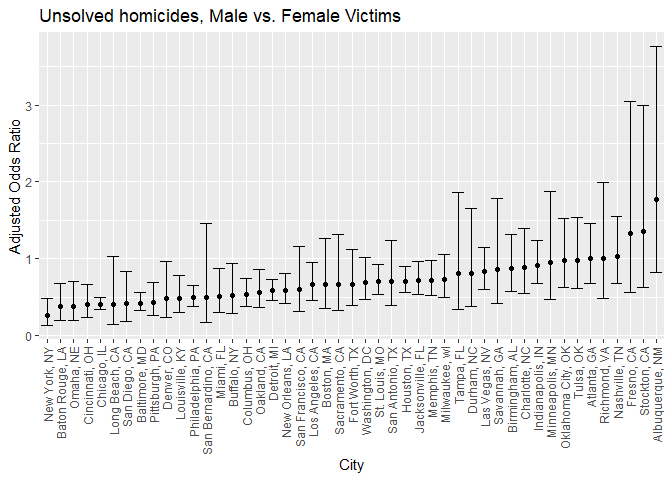
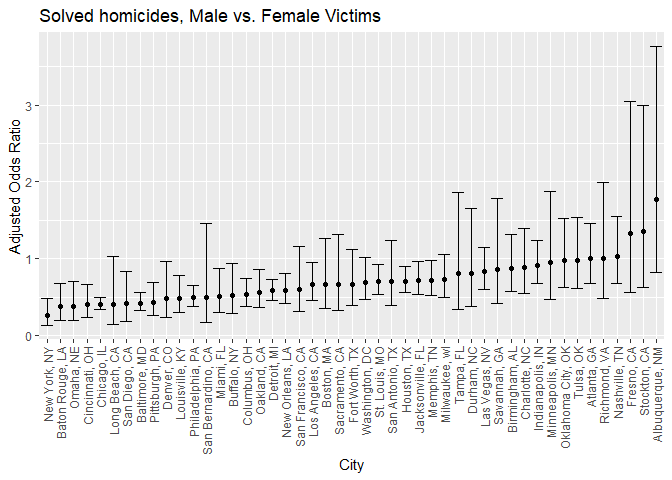
worked on problem 2 and 3

Changed region(s): [[0.0625, 0.0, 0.5938, 0.0625]]

diff --git a/Homework-6.md b/Homework-6.md
@@ -1,7 +1,7 @@
 Homework 6
 ================
 Mari Sanders
-2024-12-01
+2024-12-02
 
 # Problem 1
 
@@ -59,7 +59,8 @@ log_beta %>%
 Data Cleaning
 
 ``` r
-homicide_df <- read_csv("data/homicide-data.csv", na = c("", "NA", "Unknown")) %>% filter(victim_race != "NA") %>% 
+homicide_df <- read_csv("data/homicide-data.csv", na = c("", "NA", "Unknown")) %>% 
+  filter(victim_race != "NA") %>% 
   janitor::clean_names() %>% 
   unite(city_state, c(city, state), sep = ", ") %>% 
   filter(city_state != "Dallas, TX", 
@@ -92,10 +93,12 @@ logistic <-
   filter(city_state == "Baltimore, MD") %>% 
   glm(resolved ~ victim_age + victim_sex + victim_race, data = ., family = binomial())
 
-broom::tidy(logistic, conf.int = TRUE) %>% mutate(OR = exp(estimate), 
-                                                  conf_low = exp(conf.low), 
-                                                  conf_high = exp(conf.high)) %>% 
-  select(term, log_OR = estimate, OR, conf_low, conf_high) %>% filter(term == "victim_sexMale") %>% 
+broom::tidy(logistic, conf.int = TRUE) %>% 
+  mutate(OR = exp(estimate), 
+         conf_low = exp(conf.low), 
+         conf_high = exp(conf.high)) %>% 
+  select(term, log_OR = estimate, OR, conf_low, conf_high) %>% 
+  filter(term == "victim_sexMale") %>% 
   knitr::kable(digits = 3)
 ```
 
@@ -103,8 +106,8 @@ broom::tidy(logistic, conf.int = TRUE) %>% mutate(OR = exp(estimate),
 |:---------------|-------:|------:|---------:|----------:|
 | victim_sexMale | -0.854 | 0.426 |    0.324 |     0.558 |
 
-In Baltimore, homicides of Male victims were 0.426 times more likely to
-be unsolved compared to homicides of Female victims after adjusting for
+In Baltimore, homicides of male victims were 0.426 times more likely to
+be unsolved compared to homicides of female victims after adjusting for
 all other variables.
 
 ``` r
@@ -117,7 +120,7 @@ city_results <- homicide_df %>%
   unnest(results) %>%
   mutate(OR = exp(estimate), 
          conf_low = exp(conf.low), 
-                                                  conf_high = exp(conf.high)) %>% 
+         conf_high = exp(conf.high)) %>% 
   select(city_state, term, OR, conf_low, conf_high) %>%
    filter(term == "victim_sexMale") 
 
@@ -180,7 +183,7 @@ city_results %>%
   geom_point() +
   geom_errorbar(aes(ymin = conf_low, ymax = conf_high)) +
   labs(
-    title = "Unsolved homicides, Male vs. Female Victims",
+    title = "Solved homicides, Male vs. Female Victims",
     x = "City", 
     y = "Adjusted Odds Ratio"
   ) +
@@ -188,6 +191,11 @@ city_results %>%
 ```
 
 ![](Homework-6_files/figure-gfm/unnamed-chunk-7-1.png)<!-- -->
+
+All of the cities, except for Tulsa, Atlanta, Richmond, Nashville,
+Fresno, Stockton, and Albuquerque have an adjusted odds ratio less
+than 1. This means that males in all cities except for these are more
+likely to have unsolved homicides than females.
 
 # Problem 3
 
@@ -232,91 +240,91 @@ birthweight %>%
 There are no missing values in this dataset.
 
 ``` r
-birthweight_model <- 
-  lm(bwt ~ ., data = birthweight)
-summary(birthweight_model)
+x <- birthweight %>% 
+  select(-bwt) %>% data.matrix()
+y <- birthweight %>% 
+  select(bwt) %>% pull()
+cv_model <- cv.glmnet(x,y, alpha = 1)
+best_lambda <- cv_model$lambda.min
+plot(cv_model)
 ```
 
-    ## 
-    ## Call:
-    ## lm(formula = bwt ~ ., data = birthweight)
-    ## 
-    ## Residuals:
-    ##      Min       1Q   Median       3Q      Max 
-    ## -1097.68  -184.86    -3.33   173.09  2344.15 
-    ## 
-    ## Coefficients: (3 not defined because of singularities)
-    ##               Estimate Std. Error t value Pr(>|t|)    
-    ## (Intercept) -6265.3914   660.4011  -9.487  < 2e-16 ***
-    ## babysex2       28.7073     8.4652   3.391 0.000702 ***
-    ## bhead         130.7781     3.4523  37.881  < 2e-16 ***
-    ## blength        74.9536     2.0217  37.075  < 2e-16 ***
-    ## delwt           4.1007     0.3948  10.386  < 2e-16 ***
-    ## fincome         0.2898     0.1795   1.614 0.106551    
-    ## frace2         14.3313    46.1501   0.311 0.756168    
-    ## frace3         21.2361    69.2960   0.306 0.759273    
-    ## frace4        -46.9962    44.6782  -1.052 0.292912    
-    ## frace8          4.2969    74.0741   0.058 0.953745    
-    ## gaweeks        11.5494     1.4654   7.882 4.06e-15 ***
-    ## malform1        9.7650    70.6259   0.138 0.890039    
-    ## menarche       -3.5508     2.8951  -1.226 0.220083    
-    ## mheight         9.7874    10.3116   0.949 0.342588    
-    ## momage          0.7593     1.2221   0.621 0.534418    
-    ## mrace2       -151.4354    46.0453  -3.289 0.001014 ** 
-    ## mrace3        -91.3866    71.9190  -1.271 0.203908    
-    ## mrace4        -56.4787    45.1369  -1.251 0.210901    
-    ## parity         95.5411    40.4793   2.360 0.018307 *  
-    ## pnumlbw             NA         NA      NA       NA    
-    ## pnumsga             NA         NA      NA       NA    
-    ## ppbmi           4.3538    14.8913   0.292 0.770017    
-    ## ppwt           -3.4716     2.6121  -1.329 0.183913    
-    ## smoken         -4.8544     0.5871  -8.269  < 2e-16 ***
-    ## wtgain              NA         NA      NA       NA    
-    ## ---
-    ## Signif. codes:  0 '***' 0.001 '**' 0.01 '*' 0.05 '.' 0.1 ' ' 1
-    ## 
-    ## Residual standard error: 272.5 on 4320 degrees of freedom
-    ## Multiple R-squared:  0.7183, Adjusted R-squared:  0.717 
-    ## F-statistic: 524.6 on 21 and 4320 DF,  p-value: < 2.2e-16
+![](Homework-6_files/figure-gfm/unnamed-chunk-9-1.png)<!-- -->
 
-Since `babysex2`, `bhead`, `blength`, `delwt`, `gaweeks`, `mrace`,
-`mrace2`, `parity` and `smoken` are all significant, i am going to
-examine what the adjusted $r^2$ looks like
+``` r
+best_model <- glmnet(x, y, alpha = 1, lambda = best_lambda)
+coef(best_model)
+```
+
+    ## 20 x 1 sparse Matrix of class "dgCMatrix"
+    ##                        s0
+    ## (Intercept) -6159.0454264
+    ## babysex        26.7837191
+    ## bhead         133.7823509
+    ## blength        76.2335342
+    ## delwt           1.1321579
+    ## fincome         0.6039174
+    ## frace         -10.7669487
+    ## gaweeks        11.6394672
+    ## malform         .        
+    ## menarche       -2.2764510
+    ## mheight         4.7238901
+    ## momage          2.8739417
+    ## mrace         -41.7053780
+    ## parity         65.1187493
+    ## pnumlbw         .        
+    ## pnumsga         .        
+    ## ppbmi           .        
+    ## ppwt            .        
+    ## smoken         -3.3140939
+    ## wtgain          2.6324389
+
+Used lasso to find the most important coefficients
 
 ``` r
 birthweight_model_adjusted <- 
-  lm(bwt~ babysex + bhead + blength + delwt + gaweeks + mrace + parity + smoken, data = birthweight)
+  lm(bwt~ babysex + bhead + blength + delwt  + fincome + frace + gaweeks + menarche + mheight + momage + mrace + parity + smoken + wtgain, data = birthweight)
 summary(birthweight_model_adjusted)
 ```
 
     ## 
     ## Call:
-    ## lm(formula = bwt ~ babysex + bhead + blength + delwt + gaweeks + 
-    ##     mrace + parity + smoken, data = birthweight)
+    ## lm(formula = bwt ~ babysex + bhead + blength + delwt + fincome + 
+    ##     frace + gaweeks + menarche + mheight + momage + mrace + parity + 
+    ##     smoken + wtgain, data = birthweight)
     ## 
     ## Residuals:
     ##      Min       1Q   Median       3Q      Max 
-    ## -1119.67  -181.24    -5.87   173.51  2340.76 
+    ## -1096.18  -184.97    -3.28   173.37  2343.93 
     ## 
     ## Coefficients:
     ##               Estimate Std. Error t value Pr(>|t|)    
-    ## (Intercept) -5822.5934    98.8325 -58.914  < 2e-16 ***
-    ## babysex2       28.6609     8.4951   3.374 0.000748 ***
-    ## bhead         131.6982     3.4607  38.056  < 2e-16 ***
-    ## blength        75.8653     2.0210  37.538  < 2e-16 ***
-    ## delwt           2.2649     0.1961  11.550  < 2e-16 ***
-    ## gaweeks        12.1400     1.4654   8.284  < 2e-16 ***
-    ## mrace2       -146.7893     9.2435 -15.880  < 2e-16 ***
-    ## mrace3        -71.5880    42.4809  -1.685 0.092026 .  
-    ## mrace4       -119.5979    18.7656  -6.373 2.04e-10 ***
-    ## parity         98.6113    40.5334   2.433 0.015021 *  
-    ## smoken         -4.7472     0.5882  -8.071 8.96e-16 ***
+    ## (Intercept) -6076.3394   140.3380 -43.298  < 2e-16 ***
+    ## babysex2       28.6687     8.4621   3.388 0.000711 ***
+    ## bhead         130.8115     3.4500  37.917  < 2e-16 ***
+    ## blength        74.9520     2.0209  37.088  < 2e-16 ***
+    ## delwt           1.3812     0.2363   5.846 5.41e-09 ***
+    ## fincome         0.2903     0.1794   1.618 0.105779    
+    ## frace2         14.4462    46.1368   0.313 0.754207    
+    ## frace3         21.0968    69.2793   0.305 0.760748    
+    ## frace4        -47.1129    44.6669  -1.055 0.291594    
+    ## frace8          4.5682    74.0476   0.062 0.950810    
+    ## gaweeks        11.5439     1.4649   7.880 4.11e-15 ***
+    ## menarche       -3.5779     2.8932  -1.237 0.216280    
+    ## mheight         6.8160     1.8003   3.786 0.000155 ***
+    ## momage          0.7699     1.2214   0.630 0.528491    
+    ## mrace2       -151.5475    46.0336  -3.292 0.001002 ** 
+    ## mrace3        -92.0031    71.8741  -1.280 0.200593    
+    ## mrace4        -56.6313    45.1245  -1.255 0.209546    
+    ## parity         95.3411    40.4655   2.356 0.018512 *  
+    ## smoken         -4.8542     0.5867  -8.273  < 2e-16 ***
+    ## wtgain          2.7202     0.4327   6.286 3.58e-10 ***
     ## ---
     ## Signif. codes:  0 '***' 0.001 '**' 0.01 '*' 0.05 '.' 0.1 ' ' 1
     ## 
-    ## Residual standard error: 273.8 on 4331 degrees of freedom
-    ## Multiple R-squared:  0.7148, Adjusted R-squared:  0.7142 
-    ## F-statistic:  1086 on 10 and 4331 DF,  p-value: < 2.2e-16
+    ## Residual standard error: 272.4 on 4322 degrees of freedom
+    ## Multiple R-squared:  0.7183, Adjusted R-squared:  0.7171 
+    ## F-statistic: 580.1 on 19 and 4322 DF,  p-value: < 2.2e-16
 
 ``` r
 birthweight %>%
@@ -326,7 +334,7 @@ birthweight %>%
   geom_point() 
 ```
 
-![](Homework-6_files/figure-gfm/unnamed-chunk-11-1.png)<!-- -->
+![](Homework-6_files/figure-gfm/unnamed-chunk-12-1.png)<!-- -->
 
 ``` r
 main_effects <- 
@@ -343,7 +351,7 @@ cv_df <-
     train = map(train, as_tibble), 
     test = map(test, as_tibble)
   ) %>% 
-  mutate(my_model = map(train, \(df) lm(bwt~ babysex + bhead + blength + delwt + gaweeks + mrace + parity + smoken, data = df)),
+  mutate(my_model = map(train, \(df) lm(bwt~ babysex + bhead + blength + delwt  + fincome + frace + gaweeks + menarche + mheight + momage + mrace + parity + smoken + wtgain, data = df)),
     main_effects = map(train, \(df) lm(bwt ~ blength, gaweeks, data = df)), 
          interactions = map(train, \(df) lm(bwt ~bhead + blength + babysex + bhead*blength*babysex, data = df))) %>% 
   mutate(
@@ -353,12 +361,10 @@ cv_df <-
   )
 ```
 
-    ## Warning: There were 2 warnings in `mutate()`.
-    ## The first warning was:
+    ## Warning: There was 1 warning in `mutate()`.
     ## ℹ In argument: `rmse_mymodel = map2_dbl(...)`.
     ## Caused by warning in `predict.lm()`:
     ## ! prediction from rank-deficient fit; attr(*, "non-estim") has doubtful cases
-    ## ℹ Run `dplyr::last_dplyr_warnings()` to see the 1 remaining warning.
 
 ``` r
 cv_df %>% 
@@ -372,4 +378,4 @@ cv_df %>%
   geom_violin()
 ```
 
-![](Homework-6_files/figure-gfm/unnamed-chunk-13-1.png)<!-- -->
+![](Homework-6_files/figure-gfm/unnamed-chunk-14-1.png)<!-- -->
